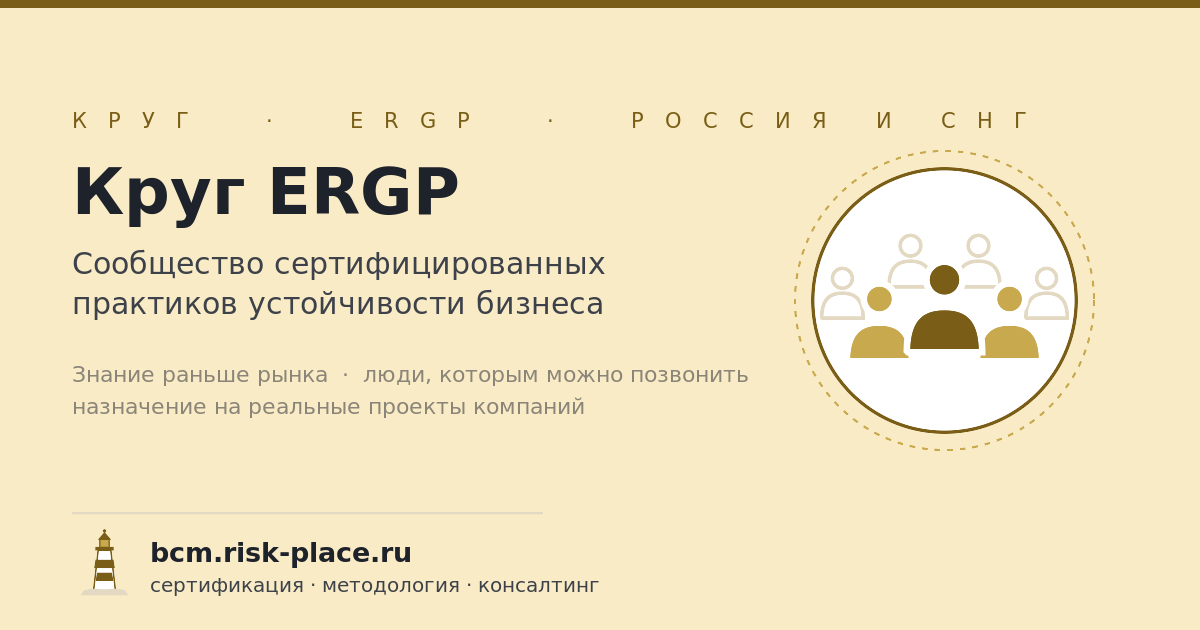
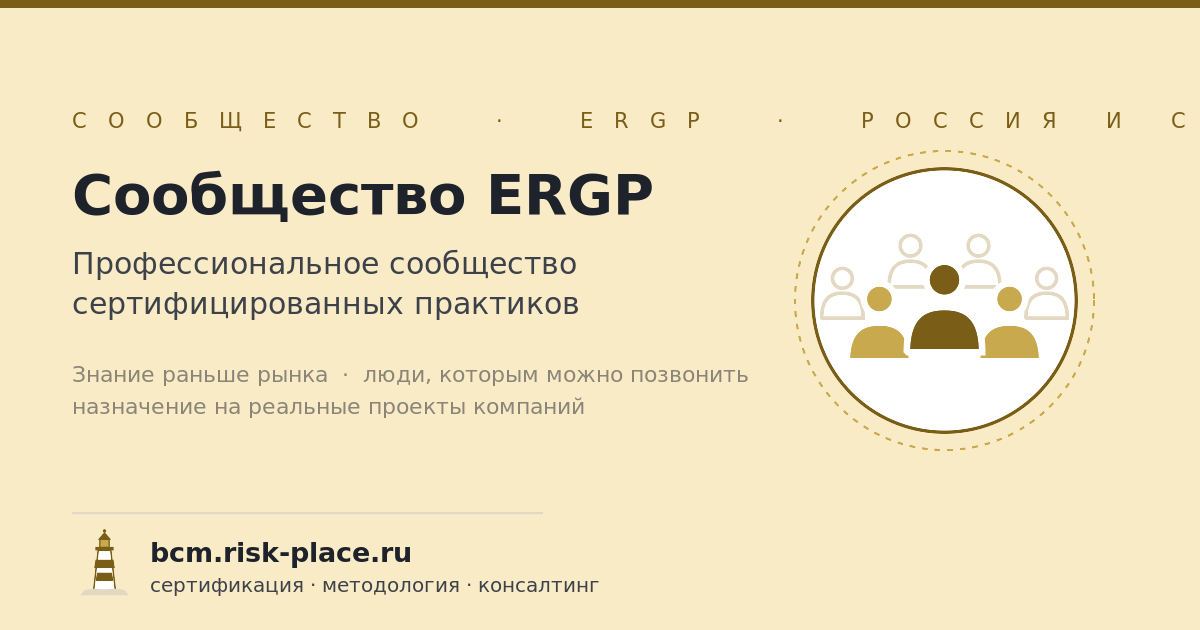
ё

diff --git a/index.html b/index.html
@@ -392,7 +392,7 @@ section:last-of-type { padding-bottom: 40px; }
   flex-shrink: 0;
 }
 .section-title {
-  font-size: clamp(21px, 2.5vw, 28px);
+  font-size: clamp(28px, 3.6vw, 44px);
   font-weight: 700;
   line-height: 1.2;
   color: var(--black);
@@ -1200,20 +1200,20 @@ footer{background:#1E222B;}
   <div class="wrap">
     <div class="doors">
       <a class="door" href="onlajn-kurs.html">
-        <span class="dk" data-ru="Мне" data-en="For me">Мне</span>
-        <span class="dt" data-ru="Нужен сертификат по управлению устойчивостью" data-en="I need a resilience governance certificate">Нужен сертификат по управлению устойчивостью</span>
-        <span class="dd" data-ru="ERGP: шесть модулей, 123 главы, итоговая работа перед экзаменатором, именной сертификат в открытом реестре и вход в Круг ERGP." data-en="ERGP: six modules, 123 chapters, a capstone before the examiner, a named certificate in the public register and admission to the ERGP Circle.">ERGP: шесть модулей, 123 главы, итоговая работа перед экзаменатором, именной сертификат в открытом реестре и вход в Круг ERGP.</span>
+        <span class="dk" data-ru="Специалисту" data-en="For a professional">Специалисту</span>
+        <span class="dt" data-ru="Сертификат по управлению устойчивостью бизнеса" data-en="I need a resilience governance certificate">Сертификат по управлению устойчивостью бизнеса</span>
+        <span class="dd" data-ru="ERGP: шесть модулей, 123 главы, итоговая работа перед экзаменатором, именной сертификат в открытом реестре и вход в профессиональное сообщество ERGP." data-en="ERGP: six modules, 123 chapters, a capstone before the examiner, a named certificate in the public register and admission to the ERGP Circle.">ERGP: шесть модулей, 123 главы, итоговая работа перед экзаменатором, именной сертификат в открытом реестре и вход в профессиональное сообщество ERGP.</span>
         <span class="dg" data-ru="Сертификация ERGP →" data-en="ERGP certification →">Сертификация ERGP →</span>
       </a>
       <a class="door" href="kultura-bezopasnosti.html">
-        <span class="dk" data-ru="Моему персоналу" data-en="For my staff">Моему персоналу</span>
-        <span class="dt" data-ru="Нужна культура безопасности на рабочем месте" data-en="Needs a safety culture at the workplace">Нужна культура безопасности на рабочем месте</span>
+        <span class="dk" data-ru="Персоналу компании" data-en="For company staff">Персоналу компании</span>
+        <span class="dt" data-ru="Культура безопасности на рабочем месте" data-en="Needs a safety culture at the workplace">Культура безопасности на рабочем месте</span>
         <span class="dd" data-ru="SAFE: пять модулей, два часа с телефона, оценка риска до начала работы и право остановить опасную работу. Сертификат каждому." data-en="SAFE: five modules, two hours from a phone, risk assessment before work starts and the right to stop unsafe work. A certificate for everyone.">SAFE: пять модулей, два часа с телефона, оценка риска до начала работы и право остановить опасную работу. Сертификат каждому.</span>
         <span class="dg" data-ru="Программа SAFE →" data-en="SAFE programme →">Программа SAFE →</span>
       </a>
       <a class="door" href="dlya-kompanij.html">
-        <span class="dk" data-ru="Моей компании" data-en="For my company">Моей компании</span>
-        <span class="dt" data-ru="Нужна работающая система непрерывности" data-en="Needs a continuity system that works">Нужна работающая система непрерывности</span>
+        <span class="dk" data-ru="Руководителю компании" data-en="For a company leader">Руководителю компании</span>
+        <span class="dt" data-ru="Работающая система непрерывности" data-en="Needs a continuity system that works">Работающая система непрерывности</span>
         <span class="dd" data-ru="Дашборд непрерывности и рисков для руководства и построение системы под ключ: аудит, планы, обученные люди, риски в деньгах." data-en="A continuity and risk dashboard for leadership and a turnkey system: audit, plans, trained people, risk in money.">Дашборд непрерывности и рисков для руководства и построение системы под ключ: аудит, планы, обученные люди, риски в деньгах.</span>
         <span class="dg" data-ru="Услуги для компаний →" data-en="Services for companies →">Услуги для компаний →</span>
       </a>
@@ -1224,8 +1224,7 @@ footer{background:#1E222B;}
 <section class="cert-section" id="certification">
   <div class="wrap">
     <div style="max-width:820px;margin:0 0 28px;">
-      <div class="section-eyebrow" data-ru="Программы и сертификация" data-en="Programmes and certification">Программы и сертификация</div>
-      <h2 class="section-title" style="margin-bottom:10px;" data-ru="Профессиональные программы и тренинги по работе с рисками" data-en="Professional programmes and training in risk management">Профессиональные программы и тренинги по работе с рисками</h2>
+      <h2 class="section-title" style="margin-bottom:10px;" data-ru="Программы и сертификация" data-en="Programmes and certification">Программы и сертификация</h2>
       <p class="section-desc" style="margin:0;" data-ru="Программа для тех, кто строит систему непрерывности, программа по безопасности для всего персонала и очный тренинг для управленческой команды." data-en="A programme for those building the continuity system, a workplace safety programme for all staff and in-person training for the management team.">Программа для тех, кто строит систему непрерывности, программа по безопасности для всего персонала и очный тренинг для управленческой команды.</p>
     </div>
     <div class="cert-card">
@@ -1274,9 +1273,8 @@ footer{background:#1E222B;}
 <section class="products-section" id="products" style="padding:43px 24px;background:#FFFFFF;">
   <div class="wrap">
     <div style="max-width:820px;margin:0 0 36px;">
-      <div class="section-eyebrow" data-ru="Для компаний" data-en="For companies">Для компаний</div>
-      <h2 class="section-title" style="margin-bottom:10px;" data-ru="Дашборд для руководства и система непрерывности под ключ" data-en="A dashboard for leadership and a turnkey continuity system">Дашборд для руководства и система непрерывности под ключ</h2>
-      <p class="section-desc" style="margin:0;" data-ru="Дашборд показывает руководству живую картину устойчивости. Система под ключ дает работающие планы, обученных людей и риски в деньгах. Цена по объему работ, расчет за два рабочих дня." data-en="The dashboard gives leadership a live picture of resilience. The turnkey system leaves you with working plans, trained people and risk in money. Priced by scope, quote within two working days.">Дашборд показывает руководству живую картину устойчивости. Построение системы под ключ дает работающие планы, обученных людей и риски в деньгах. Цена по объему работ, расчет за два рабочих дня.</p>
+      <h2 class="section-title" style="margin-bottom:10px;" data-ru="Для компаний" data-en="For companies">Для компаний</h2>
+      <p class="section-desc" style="margin:0;" data-ru="Две услуги, в которых мы приносим компании результат: дашборд для руководства и построение системы непрерывности под ключ. Цена по объему работ, расчет за два рабочих дня." data-en="The dashboard gives leadership a live picture of resilience. The turnkey system leaves you with working plans, trained people and risk in money. Priced by scope, quote within two working days.">Дашборд показывает руководству живую картину устойчивости. Построение системы под ключ дает работающие планы, обученных людей и риски в деньгах. Цена по объему работ, расчет за два рабочих дня.</p>
     </div>
 <!-- Дашборд — крупный подблок -->
     <div class="dash-flag">
@@ -1290,19 +1288,15 @@ footer{background:#1E222B;}
         <span id="dash-shot"><img src="dashboard-preview.jpg" alt="Дашборд непрерывности и рисков — интегральный индекс, стоимость дня простоя и статус планов" loading="lazy" class="dash-flag-img"></span>
       </div>
     </div>
-    <!-- Три карточки -->
-    <div class="prod-trio" style="grid-template-columns:1fr 1fr;">
-      <div class="prod-card" style="border:1px solid #E3D9C2;border-radius:16px;padding:24px 20px 20px;display:flex;flex-direction:column;background:#fff;">
-        <span data-ru="С экспертом" data-en="With an expert" style="align-self:flex-start;font-size:12px;font-weight:700;padding:5px 12px;border-radius:999px;background:#F5F1E8;color:#7A5E17;margin:0 0 10px;">С экспертом</span>
-        <h3 data-ru="Построение системы непрерывности под ключ" data-en="Turnkey business continuity system" style="font-size:19px;line-height:1.25;margin:0 0 8px;color:#1B3A5C;">Построение системы непрерывности под ключ</h3>
-        <p data-ru="От аудита того, что есть, до действующей системы: работающие планы, обученные люди, риски в деньгах и измеримые метрики восстановления." data-en="From an audit of what exists to a working system: usable plans, trained people, risk in money terms and measurable recovery metrics." style="font-size:15px;line-height:1.5;color:#565A63;margin:0 0 14px;flex:1;">От аудита того, что есть, до действующей системы: работающие планы, обученные люди, риски в деньгах и измеримые метрики восстановления.</p>
-        <a href="bcm-pod-klyuch.html" class="prod-link-row"><span data-ru="Подробнее и запросить стоимость" data-en="Details and request a quote">Подробнее и запросить стоимость</span><span>→</span></a>
+    <div class="dash-flag">
+      <div>
+        <span id="pk-shot"><img src="assets/pod-klyuch-preview.svg" alt="Построение системы непрерывности под ключ: аудит, планы, люди, метрики и что остается в компании" loading="lazy" class="dash-flag-img" width="1060" height="560"></span>
       </div>
-      <div class="prod-card" style="border:1px solid #E3D9C2;border-radius:16px;padding:24px 20px 20px;display:flex;flex-direction:column;background:#F5F1E8;">
-        <span data-ru="Обучение для вашей команды" data-en="Training for your team" style="align-self:flex-start;font-size:12px;font-weight:700;padding:5px 12px;border-radius:999px;background:#fff;color:#7A5E17;margin:0 0 10px;">Обучение для вашей команды</span>
-        <h3 data-ru="Корпоративный тренинг и SAFE для персонала" data-en="Corporate training and SAFE for staff" style="font-size:19px;line-height:1.25;margin:0 0 8px;color:#1B3A5C;">Корпоративный тренинг и SAFE для персонала</h3>
-        <p data-ru="Два дня с управленческой командой на ваших процессах, с кризисным учением в финале. Персонал проходит SAFE с телефона за два часа, сертификат каждому." data-en="Two days with the management team on your own processes, with a crisis exercise at the end. Staff take SAFE from a phone in two hours, a certificate for everyone." style="font-size:15px;line-height:1.55;color:#565A63;margin:0 0 16px;flex:1;">Два дня с управленческой командой на ваших процессах, с кризисным учением в финале. Персонал проходит SAFE с телефона за два часа, сертификат каждому.</p>
-        <a href="obuchenie-nepreryvnosti-biznesa.html" class="prod-link-row"><span data-ru="Корпоративный тренинг" data-en="Corporate training">Корпоративный тренинг</span><span>→</span></a>
+      <div>
+        <span class="dash-flag-badge" data-ru="С экспертом" data-en="With an expert">С экспертом</span>
+        <h3 class="dash-flag-title" data-ru="Построение системы непрерывности под ключ" data-en="Turnkey continuity system">Построение системы непрерывности под ключ</h3>
+        <p class="dash-flag-desc" data-ru="Начинаем с честного аудита того, что есть, и за один-два месяца доводим до работающей системы: короткие планы для худшего дня, люди, которые знают свои роли, риски в деньгах и измеримое восстановление. Стресс-тест, стратегическая сессия и риск-сюрвей площадок включаются по задаче и входят в единый расчет." data-en="We start with an honest audit of what exists and in one to two months reach a working system: short plans for the worst day, people who know their roles, risk in money and measurable recovery. A stress-test, a strategy session and a site risk survey are added by task and priced in one quote.">Начинаем с честного аудита того, что есть, и за один-два месяца доводим до работающей системы: короткие планы для худшего дня, люди, которые знают свои роли, риски в деньгах и измеримое восстановление. Стресс-тест, стратегическая сессия и риск-сюрвей площадок включаются по задаче и входят в единый расчет.</p>
+        <a href="bcm-pod-klyuch.html" class="btn btn-black" data-ru="Подробнее и запросить расчет →" data-en="Details and request a quote →">Подробнее и запросить расчет →</a>
       </div>
     </div>
   </div>
@@ -1311,7 +1305,6 @@ footer{background:#1E222B;}
 <section class="stats-section">
   <div class="wrap">
     <div style="max-width:820px;margin:0 0 34px;">
-      <div class="section-eyebrow" data-ru="Масштаб проблемы" data-en="The scale of the problem">Масштаб проблемы</div>
       <h2 class="section-title" data-ru="Во что обходится остановка бизнеса" data-en="What a business stoppage actually costs">Во что обходится остановка бизнеса</h2>
     </div>
     <div class="stats-grid">
@@ -1339,42 +1332,13 @@ footer{background:#1E222B;}
   </div>
 </section>
 <hr class="divider">
-<!-- ══ PROBLEM ══ -->
-<section class="pains-band" style="padding:43px 24px; background: #1B3A5C;">
-  <div class="wrap">
-    <div class="section-eyebrow" id="i18n-prob-eyebrow">С чем мы помогаем</div>
-    <h2 class="section-title" id="i18n-prob-title">Ситуации, в которых нужна непрерывность бизнеса</h2>
-    <div class="misconceptions" style="margin-top:36px;">
-      <div class="misconception-card">
-        <div class="myth-label" id="myth-lbl1">Ситуация</div>
-        <div class="myth-text" id="myth1">«Кибератака или сбой ИТ — и компания встала, деньги не идут»</div>
-        <div class="truth-label" id="truth-lbl1">Что делаем</div>
-        <div class="truth-text" id="truth1">Оцифровываем стоимость простоя, строим план восстановления с RTO/RPO и пошаговыми действиями для каждого сценария.</div>
-      </div>
-      <div class="misconception-card">
-        <div class="myth-label" id="myth-lbl2">Ситуация</div>
-        <div class="myth-text" id="myth2">«Ушел ключевой человек или пропал поставщик — процесс остановился»</div>
-        <div class="truth-label" id="truth-lbl2">Что делаем</div>
-        <div class="truth-text" id="truth2">Находим точки концентрации риска, готовим резервные цепочки поставок и план замещения ключевых людей.</div>
-      </div>
-      <div class="misconception-card">
-        <div class="myth-label" id="myth-lbl3">Ситуация</div>
-        <div class="myth-text" id="myth3">«Контрагент, банк или тендер требует план непрерывности или ISO 22301»</div>
-        <div class="truth-label" id="truth-lbl3">Что делаем</div>
-        <div class="truth-text" id="truth3">Разрабатываем BCP и систему по ISO 22301 — основу для соответствия требованиям контрагентов и сертификации.</div>
-      </div>
-    </div>
-  </div>
-</section>
 <!-- ══ МЕТОДОЛОГИЯ ══ -->
 <section id="metodologiya" style="padding:43px 24px;background:#FFFFFF;">
   <div class="wrap">
 
-    <div class="section-eyebrow" data-ru="Методология непрерывности" data-en="Continuity methodology">Методология непрерывности</div>
-
     <div style="display:grid;grid-template-columns:1.35fr 1fr;gap:40px;align-items:end;margin-bottom:38px;" class="meth-head">
       <div>
-        <h2 class="section-title" data-ru="База знаний по непрерывности бизнеса" data-en="A working knowledge base on business continuity">База знаний по непрерывности бизнеса</h2>
+        <h2 class="section-title" data-ru="Методология и база знаний" data-en="Methodology and knowledge base">Методология и база знаний</h2>
         <p style="font-size:17px;line-height:1.6;color:#565A63;margin:0;" data-ru="Все, чему мы учим и что внедряем у клиентов, опубликовано здесь. Методики, готовые структуры документов, требования регуляторов и разборы реальных сценариев — без регистрации и без оплаты." data-en="Everything we teach and implement for clients is published here. Methods, document structures, regulatory requirements and real scenario breakdowns — free and open.">Все, чему мы учим и что внедряем у клиентов, опубликовано здесь. Методики, готовые структуры документов, требования регуляторов и разборы реальных сценариев — без регистрации и без оплаты.</p>
       </div>
       <form onsubmit="return mSearch(event)" style="display:flex;gap:10px;">
@@ -1448,7 +1412,6 @@ footer{background:#1E222B;}
 
       <!-- текст -->
       <div style="flex:1 1 300px;min-width:0;">
-        <div class="section-eyebrow" style="margin-bottom:10px;" data-ru="Новая книга · PDF, бесплатно" data-en="New book · PDF, free">Новая книга · PDF, бесплатно</div>
         <div data-ru="Практическая карта непрерывности: от оценки уязвимостей до работы в день сбоя." data-en="A practical continuity map — from assessing vulnerabilities to the day of an outage." style="font-size:17px;font-weight:700;line-height:1.35;color:#1E222B;margin-bottom:9px;">Практическая карта непрерывности: от оценки уязвимостей до работы в день сбоя.</div>
         <div class="kb-bullets" style="display:flex;flex-wrap:wrap;gap:6px 22px;font-size:15px;line-height:1.35;color:#565A63;">
           <span><span style="color:#7A5E17;font-weight:800;">→</span> <span data-ru="Оценка уязвимостей и критичных процессов" data-en="Assessing vulnerabilities and critical processes">Оценка уязвимостей и критичных процессов</span></span>
@@ -1500,20 +1463,19 @@ function mSearch(e){e.preventDefault();var q=(document.getElementById('mq').valu
 <!-- ══ КТО ЗА ЭТИМ СТОИТ ══ -->
 <section style="padding:43px 24px;background:#FFFFFF;border-top:1px solid #E3D9C2;">
   <div class="wrap">
-    <div class="section-eyebrow" data-ru="Кто за этим стоит" data-en="Who is behind it">Кто за этим стоит</div>
-    <h2 class="section-title" style="margin-bottom:10px;" data-ru="Практики, которые сами вели эти системы, и сообщество, которое они ведут" data-en="Practitioners who ran these systems themselves, and the community they lead">Практики, которые сами вели эти системы, и сообщество, которое они ведут</h2>
+    <h2 class="section-title" style="margin-bottom:10px;" data-ru="Кто за этим стоит" data-en="Who is behind it">Кто за этим стоит</h2>
     <p class="section-desc" style="margin:0 0 26px;max-width:820px;" data-ru="Два основателя с двадцатью годами в риск-функциях крупных организаций, промышленность и банк. Программы написаны по тому, что выдержало и что сломалось в реальных инцидентах." data-en="Two founders with twenty years each in the risk functions of large organisations, industry and banking. The programmes are written from what held and what broke in real incidents.">Два основателя с двадцатью годами в риск-функциях крупных организаций, промышленность и банк. Программы написаны по тому, что выдержало и что сломалось в реальных инцидентах.</p>
     <div class="who">
       <div>
         <div class="ppl">
           <div class="pp"><img src="exp-telenkov.jpg" alt="Евгений Теленков" loading="lazy"><div><b>Евгений Теленков</b><span data-ru="Директор практики непрерывности · к.э.н. · главный экзаменатор ERGP" data-en="Director, continuity practice · PhD · Chief Examiner, ERGP">Директор практики непрерывности · к.э.н. · главный экзаменатор ERGP</span></div></div>
-          <div class="pp"><img src="exp-khilko.jpg" alt="Эржена Хилько" loading="lazy"><div><b data-ru="Эржена Хилько" data-en="Erzhena Khilko">Эржена Хилько</b><span data-ru="Директор образовательных программ · куратор Круга ERGP" data-en="Director of Educational Programmes · Curator of the ERGP Circle">Директор образовательных программ · куратор Круга ERGP</span></div></div>
+          <div class="pp"><img src="exp-khilko.jpg" alt="Эржена Хилько" loading="lazy"><div><b data-ru="Эржена Хилько" data-en="Erzhena Khilko">Эржена Хилько</b><span data-ru="Директор образовательных программ · куратор профессионального сообщества ERGP" data-en="Director of Educational Programmes · Curator of the ERGP Circle">Директор образовательных программ · куратор профессионального сообщества ERGP</span></div></div>
         </div>
-        <p style="margin:16px 0 0;"><a href="o-podhode.html#experts" style="color:#1B3A5C;font-weight:700;text-decoration:none;font-size:15px;" data-ru="О нас и о Круге ERGP →" data-en="About us and the ERGP Circle →">О нас и о Круге ERGP →</a></p>
+        <p style="margin:16px 0 0;"><a href="o-podhode.html#experts" style="color:#1B3A5C;font-weight:700;text-decoration:none;font-size:15px;" data-ru="О нас и о профессиональном сообществе ERGP →" data-en="About us and the ERGP Circle →">О нас и о профессиональном сообществе ERGP →</a></p>
       </div>
       <div class="side">
-        <b data-ru="Круг ERGP" data-en="The ERGP Circle">Круг ERGP</b>
-        <p data-ru="Сертификат ERGP это вход в закрытое сообщество сертифицированных практиков: ежеквартальные сессии, каталог членов, назначение на реальные проекты компаний. Круг один на русскую, английскую и арабскую редакции программы." data-en="The ERGP certificate is the entry to a private community of certified practitioners: quarterly sessions, a member directory, assignment to real engagements. One Circle for the Russian, English and Arabic editions.">Сертификат ERGP это вход в закрытое сообщество сертифицированных практиков: ежеквартальные сессии, каталог членов, назначение на реальные проекты компаний. Круг один на русскую, английскую и арабскую редакции программы.</p>
+        <b data-ru="Профессиональное сообщество ERGP" data-en="The ERGP Circle">Профессиональное сообщество ERGP</b>
+        <p data-ru="Сертификат ERGP это вход в закрытое сообщество сертифицированных практиков: ежеквартальные сессии, каталог членов, назначение на реальные проекты компаний. Сообщество одно на русскую, английскую и арабскую редакции программы." data-en="The ERGP certificate is the entry to a private community of certified practitioners: quarterly sessions, a member directory, assignment to real engagements. One Circle for the Russian, English and Arabic editions.">Сертификат ERGP это вход в закрытое сообщество сертифицированных практиков: ежеквартальные сессии, каталог членов, назначение на реальные проекты компаний. Сообщество одно на русскую, английскую и арабскую редакции программы.</p>
         <b data-ru="Сертификат, который можно проверить" data-en="A certificate you can verify">Сертификат, который можно проверить</b>
         <p data-ru="У каждого сертификата номер, работодатель проверяет его по открытому реестру за десять секунд." data-en="Every certificate has a number; an employer verifies it in the public register in ten seconds.">У каждого сертификата номер, работодатель проверяет его по открытому реестру за десять секунд.</p>
         <a href="onlajn-kurs.html#certificate" data-ru="Проверить сертификат →" data-en="Verify a certificate →">Проверить сертификат →</a>
@@ -1537,7 +1499,6 @@ function mSearch(e){e.preventDefault();var q=(document.getElementById('mq').valu
   .calt a:hover{text-decoration:underline}
   </style>
   <div class="wrap">
-    <div class="section-eyebrow"><span data-ru="Демонстрация и внедрение" data-en="Demo and implementation">Демонстрация и внедрение</span></div>
     <h2 class="section-title"><span data-ru="Запросите демонстрацию продукта или расчет внедрения" data-en="Request a product demo or an implementation estimate">Запросите демонстрацию продукта или расчет внедрения</span></h2>
     <p style="font-size:15px;color:#565A63;max-width:640px;margin:8px 0 22px;" data-ru="Выберите, что вас интересует, — ответим в течение рабочего дня и предложим следующий шаг." data-en="Pick what you are interested in — we reply within one business day with a proposed next step.">Выберите, что вас интересует, — ответим в течение рабочего дня и предложим следующий шаг.</p>
     <div class="cform">

diff --git a/o-podhode.html b/o-podhode.html
@@ -11,8 +11,8 @@
 </script>
 <meta charset="UTF-8">
 <meta name="viewport" content="width=device-width, initial-scale=1.0">
-<title>О нас: основатели, Круг ERGP и консультанты проектов</title>
-<meta name="description" content="Два практика с двадцатью годами в риск-функциях крупных организаций и сообщество, которое они координируют: Круг ERGP, где сертифицированные специалисты по устойчивости учатся раньше рынка, находят друг друга и получают проекты. Консультанты практики по страхованию, комплаенсу и санкциям.">
+<title>О нас: основатели и профессиональное сообщество ERGP</title>
+<meta name="description" content="Два практика с двадцатью годами в риск-функциях крупных организаций и сообщество, которое они ведут: профессиональное сообщество ERGP, где сертифицированные специалисты по устойчивости учатся раньше рынка, находят друг друга и получают проекты. Консультанты практики по страхованию, комплаенсу и санкциям.">
 <meta name="author" content="Risk-place">
 <meta name="robots" content="index, follow">
 <link rel="alternate" hreflang="ru" href="https://bcm.risk-place.ru/o-podhode.html">
@@ -22,8 +22,8 @@
 <meta name="yandex-verification" content="6b8108f8673d1707">
 <meta property="og:type" content="website">
 <meta property="og:url" content="https://bcm.risk-place.ru/o-podhode.html">
-<meta property="og:title" content="О нас: основатели, Круг ERGP и консультанты проектов">
-<meta property="og:description" content="Два практика с двадцатью годами в риск-функциях крупных организаций и сообщество, которое они координируют: Круг ERGP, где сертифицированные специалисты по устойчивости учатся раньше рынка, находят друг друга и получают проекты. Консультанты практики по страхованию, комплаенсу и санкциям.">
+<meta property="og:title" content="О нас: основатели и профессиональное сообщество ERGP">
+<meta property="og:description" content="Два практика с двадцатью годами в риск-функциях крупных организаций и сообщество, которое они ведут: профессиональное сообщество ERGP, где сертифицированные специалисты по устойчивости учатся раньше рынка, находят друг друга и получают проекты. Консультанты практики по страхованию, комплаенсу и санкциям.">
 <meta property="og:image" content="https://bcm.risk-place.ru/og-bcm-circle.png">
 <meta property="og:locale" content="ru_RU">
 <link rel="icon" type="image/png" href="favicon.png">
@@ -107,14 +107,14 @@
     <div class="crumbs"><a href="index.html">Главная</a> / О нас</div>
     <div class="phero-eyebrow">О нас</div>
     <h1>Люди за ERGP и практика, которая стоит за продуктами</h1>
-    <p class="phero-lead">Два основателя, круг сертифицированных практиков, который они координируют, и консультанты проектов, усиливающие консалтинг там, где нужна отраслевая глубина.</p>
+    <p class="phero-lead">Два основателя, профессиональное сообщество сертифицированных практиков, который они координируют, и консультанты проектов, усиливающие консалтинг там, где нужна отраслевая глубина.</p>
   </div>
 </div>
 <div class="tw">
 
   <section class="tsec" id="experts">
     <h2>Основатели сообщества</h2>
-    <p class="sub">Один партнер ведет практику непрерывности и приносит проекты, другая ведет программы и держит круг живым. Между ними промышленность и банк, две стороны устойчивости.</p>
+    <p class="sub">Один партнер ведет практику непрерывности и приносит проекты, другая ведет программы и держит сообщество живым. Между ними промышленность и банк, две стороны устойчивости.</p>
     <div class="team2">
       <div class="tcard">
       <img src="exp-telenkov.jpg" alt="Евгений Теленков">
@@ -127,12 +127,12 @@
         <li>15+ программ непрерывности внедрено, 300+ специалистов обучено; автор ERGP, SAFE и русско-английской библиотеки</li>
         <li>Зампред ТК-010 «Менеджмент риска» Росстандарта; экспертиза: BCM и BCP, операционные и ИТ-риски, киберустойчивость, ИСО 22301</li>
       </ul>
-      <div class="cr"><b>В круге:</b> возглавляет экзаменационную комиссию, задает методологию и подбирает членов круга под проекты компаний.</div>
+      <div class="cr"><b>В сообществе:</b> возглавляет экзаменационную комиссию, задает методологию и подбирает членов сообщества под проекты компаний.</div>
     </div>
       <div class="tcard">
       <img src="exp-khilko.jpg" alt="Эржена Хилько">
       <div class="en">Эржена Хилько</div>
-      <div class="er">Директор образовательных программ · ERGP, SAFE · Куратор Круга ERGP</div>
+      <div class="er">Директор образовательных программ · ERGP, SAFE · Куратор профессионального сообщества ERGP</div>
       <ul>
         <li>Директор по рискам American Express Bank и оператора его платежной системы, 2010–2024; председатель комитета по рискам, член КУАП и кредитного комитета</li>
         <li>Построила систему управления рисками в 12 бизнес-подразделениях по модели трех линий защиты, без замечаний аудита; ВПОДК по Базелю III</li>
@@ -140,38 +140,38 @@
         <li>Ранее руководитель рисков Bank of Cyprus Russia, корпоративные финансы в Deloitte, аудит в Ernst &amp; Young; международные команды в Скандинавии, Центральной Европе и EMEA</li>
         <li>Отвечает за дизайн обучения, расписание потоков и опыт студента во всех программах; сертифицированный бизнес-психолог</li>
       </ul>
-      <div class="cr"><b>В круге:</b> курирует сообщество, ведет ежеквартальные сессии круга, приглашает экзаменаторов и хранит каталог членов.</div>
+      <div class="cr"><b>В сообществе:</b> курирует сообщество, ведет ежеквартальные сессии сообщества, приглашает экзаменаторов и хранит каталог членов.</div>
     </div>
     </div>
   </section>
 
   <section class="tsec" id="circle">
-    <h2>Круг ERGP</h2>
+    <h2>Профессиональное сообщество ERGP</h2>
     <div class="circ">
-      <img src="assets/ergp-circle-ru.svg" alt="Круг ERGP: сертифицированные практики в центре, два координатора соединяют их с компаниями" width="1060" height="520" loading="lazy">
+      <img src="assets/ergp-circle-ru.svg" alt="Профессиональное сообщество ERGP: сертифицированные практики в центре, два координатора соединяют их с компаниями" width="1060" height="520" loading="lazy">
       <div>
-        <p class="lead">Сдав ERGP, вы входите в круг, закрытое сообщество практиков с сертификатом, которое координируют основатели. Круг один на русскую, английскую и арабскую редакции программы. Сегодня он невелик и растет с каждым выданным сертификатом.</p>
+        <p class="lead">Сдав ERGP, вы входите в профессиональное сообщество практиков с сертификатом, которое координируют основатели. Сообщество одно на русскую, английскую и арабскую редакции программы. Сегодня он невелик и растет с каждым выданным сертификатом.</p>
         <p>Членство получают один раз, на экзамене, и оно дает три вещи.</p>
       </div>
     </div>
     <div class="three">
-      <div class="t"><span class="k">Знание</span><b>Раньше рынка</b><ul><li>Ежеквартальная сессия круга: один реальный случай, разобранный с основателями и экзаменаторами</li><li>Новые модули и разборы требований регуляторов приходят членам круга до публикации</li><li>Рабочие шаблоны из живых проектов</li></ul></div>
-      <div class="t"><span class="k">Люди</span><b>Каталог, в который можно позвонить</b><ul><li>Закрытый каталог членов со специализацией и контактами, доступен только внутри круга</li><li>Прямой доступ к экзаменаторам и друг к другу</li><li>Коллеги, которые решают ту же задачу в соседней отрасли</li></ul></div>
-      <div class="t"><span class="k">Возможности</span><b>Вас зовут в реальные проекты</b><ul><li>Мы назначаем членов круга на проекты компаний: аудит, дашборд, построение системы</li><li>Члены со стажем становятся экзаменаторами и соавторами модулей</li><li>Ваше имя в открытом реестре, который проверит любой работодатель</li></ul></div>
+      <div class="t"><span class="k">Знание</span><b>Раньше рынка</b><ul><li>Ежеквартальная сессия сообщества: один реальный случай, разобранный с основателями и экзаменаторами</li><li>Новые модули и разборы требований регуляторов приходят членам сообщества до публикации</li><li>Рабочие шаблоны из живых проектов</li></ul></div>
+      <div class="t"><span class="k">Люди</span><b>Каталог, в который можно позвонить</b><ul><li>Закрытый каталог членов со специализацией и контактами, доступен только внутри сообщества</li><li>Прямой доступ к экзаменаторам и друг к другу</li><li>Коллеги, которые решают ту же задачу в соседней отрасли</li></ul></div>
+      <div class="t"><span class="k">Возможности</span><b>Вас зовут в реальные проекты</b><ul><li>Мы назначаем членов сообщества на проекты компаний: аудит, дашборд, построение системы</li><li>Члены со стажем становятся экзаменаторами и соавторами модулей</li><li>Ваше имя в открытом реестре, который проверит любой работодатель</li></ul></div>
     </div>
     <p style="margin:14px 0 6px;font-weight:700;color:var(--ink)">Как вступить.</p>
     <div class="steps">
       <div class="s"><span class="n">ШАГ 1</span>Пройти программу: шесть модулей, 123 главы, шесть собственных артефактов.</div>
       <div class="s"><span class="n">ШАГ 2</span>Сдать шесть тестов по модулям и защитить итоговую работу перед экзаменатором.</div>
-      <div class="s"><span class="n">ШАГ 3</span>Получить сертификат, а вместе с ним приглашение в круг.</div>
+      <div class="s"><span class="n">ШАГ 3</span>Получить сертификат, а вместе с ним приглашение в сообщество.</div>
     </div>
-    <p class="small" style="margin-top:8px">Круг открыт для обладателей сертификата ERGP. <a href="onlajn-kurs.html">Программа и стоимость →</a></p>
+    <p class="small" style="margin-top:8px">Сообщество открыто для обладателей сертификата ERGP. <a href="onlajn-kurs.html">Программа и стоимость →</a></p>
   </section>
 
   <section class="tsec" id="engage">
     <h2>Для компаний: обратитесь к практике</h2>
     <div class="orgbox">
-      <p>Нужны руки для аудита по ИСО 22301 или требованиям Банка России, дашборд непрерывности и рисков, система непрерывности, построенная вместе с вашей командой? Опишите задачу. Мы назначаем на проект члена круга, уровень которого проверили сами на экзамене, а основатели остаются на проекте координаторами.</p>
+      <p>Нужны руки для аудита по ИСО 22301 или требованиям Банка России, дашборд непрерывности и рисков, система непрерывности, построенная вместе с вашей командой? Опишите задачу. Мы назначаем на проект члена сообщества, уровень которого проверили сами на экзамене, а основатели остаются на проекте координаторами.</p>
       <a class="btn btn-yellow" href="dlya-kompanij.html">Услуги для компаний</a>
     </div>
   </section>

diff --git a/onlajn-kurs.html b/onlajn-kurs.html
@@ -435,17 +435,17 @@
 </div></section>
 
 <section class="psec" id="circle"><div class="uw">
-  <h2>Что вы получаете вместе с сертификатом: Круг ERGP</h2>
+  <h2>Что вы получаете вместе с сертификатом: профессиональное сообщество ERGP</h2>
   <div class="circ2">
-    <img src="assets/ergp-circle-ru.svg" alt="Круг ERGP: сертифицированные практики в центре, два координатора соединяют их с компаниями" width="1060" height="520" loading="lazy">
+    <img src="assets/ergp-circle-ru.svg" alt="Профессиональное сообщество ERGP: сертифицированные практики в центре, два координатора соединяют их с компаниями" width="1060" height="520" loading="lazy">
     <div>
-      <p><b>Сертификат это вход.</b> Сдав ERGP, вы входите в круг, закрытое сообщество сертифицированных практиков, которое координируют основатели. Круг один на русскую, английскую и арабскую редакции программы, сегодня он невелик и растет с каждым выданным сертификатом.</p>
+      <p><b>Сертификат это вход.</b> Сдав ERGP, вы входите в профессиональное сообщество сертифицированных практиков, которое координируют основатели. Сообщество одно на русскую, английскую и арабскую редакции программы, сегодня он невелик и растет с каждым выданным сертификатом.</p>
       <ul>
-        <li><b>Знание раньше рынка.</b> Ежеквартальная сессия круга по одному реальному случаю; новые модули и разборы требований регуляторов до публикации.</li>
+        <li><b>Знание раньше рынка.</b> Ежеквартальная сессия сообщества по одному реальному случаю; новые модули и разборы требований регуляторов до публикации.</li>
         <li><b>Люди, которым можно позвонить.</b> Закрытый каталог членов, доступ к экзаменаторам.</li>
-        <li><b>Реальные проекты.</b> Мы назначаем членов круга на проекты компаний: аудит, дашборд, построение системы. Члены со стажем становятся экзаменаторами.</li>
+        <li><b>Реальные проекты.</b> Мы назначаем членов сообщества на проекты компаний: аудит, дашборд, построение системы. Члены со стажем становятся экзаменаторами.</li>
       </ul>
-      <p class="small">Куратор круга Эржена Хилько, проекты координирует Евгений Теленков. <a href="o-podhode.html#circle">Подробнее о круге →</a></p>
+      <p class="small">Куратор сообщества Эржена Хилько, проекты координирует Евгений Теленков. <a href="o-podhode.html#circle">Подробнее о сообществе →</a></p>
     </div>
   </div>
 </div></section>
@@ -456,8 +456,8 @@
     <img src="exp-khilko.jpg" alt="Эржена Хилько" width="460" height="460" loading="lazy">
     <div class="body">
       <span class="nm">Эржена Хилько</span>
-      <span class="rl">Директор образовательных программ · ERGP, SAFE · Куратор Круга ERGP</span>
-      <p style="max-width:74ch;margin:0">Директор по рискам American Express Bank и оператора его платежной системы в 2010–2024 годах, председатель комитета по рискам. Построила систему управления рисками в двенадцати бизнес-подразделениях по модели трех линий защиты без замечаний аудита, вела ВПОДК по Базелю III, самооценку рисков и контролей по пятнадцати ключевым процессам и план непрерывности с ежегодными учениями. Ранее руководитель рисков Bank of Cyprus Russia, корпоративные финансы в Deloitte, аудит в Ernst &amp; Young. Отвечает за дизайн обучения, расписание потоков и опыт студента во всех наших программах и курирует Круг ERGP.</p>
+      <span class="rl">Директор образовательных программ · ERGP, SAFE · Куратор профессионального сообщества ERGP</span>
+      <p style="max-width:74ch;margin:0">Директор по рискам American Express Bank и оператора его платежной системы в 2010–2024 годах, председатель комитета по рискам. Построила систему управления рисками в двенадцати бизнес-подразделениях по модели трех линий защиты без замечаний аудита, вела ВПОДК по Базелю III, самооценку рисков и контролей по пятнадцати ключевым процессам и план непрерывности с ежегодными учениями. Ранее руководитель рисков Bank of Cyprus Russia, корпоративные финансы в Deloitte, аудит в Ernst &amp; Young. Отвечает за дизайн обучения, расписание потоков и опыт студента во всех наших программах и курирует профессиональное сообщество ERGP.</p>
     </div>
   </div>
   <div class="dir">

diff --git a/kultura-bezopasnosti.html b/kultura-bezopasnosti.html
@@ -514,8 +514,8 @@
     <img src="exp-khilko.jpg" alt="Эржена Хилько" width="460" height="460" loading="lazy">
     <div class="body">
       <span class="nm">Эржена Хилько</span>
-      <span class="rl">Директор образовательных программ · ERGP, SAFE · Куратор Круга ERGP</span>
-      <p style="max-width:74ch;margin:0">Директор по рискам American Express Bank и оператора его платежной системы в 2010–2024 годах, председатель комитета по рискам. Построила систему управления рисками в двенадцати бизнес-подразделениях по модели трех линий защиты без замечаний аудита, вела ВПОДК по Базелю III, самооценку рисков и контролей по пятнадцати ключевым процессам и план непрерывности с ежегодными учениями. Ранее руководитель рисков Bank of Cyprus Russia, корпоративные финансы в Deloitte, аудит в Ernst &amp; Young. Отвечает за дизайн обучения, расписание потоков и опыт студента во всех наших программах и курирует Круг ERGP.</p>
+      <span class="rl">Директор образовательных программ · ERGP, SAFE · Куратор профессионального сообщества ERGP</span>
+      <p style="max-width:74ch;margin:0">Директор по рискам American Express Bank и оператора его платежной системы в 2010–2024 годах, председатель комитета по рискам. Построила систему управления рисками в двенадцати бизнес-подразделениях по модели трех линий защиты без замечаний аудита, вела ВПОДК по Базелю III, самооценку рисков и контролей по пятнадцати ключевым процессам и план непрерывности с ежегодными учениями. Ранее руководитель рисков Bank of Cyprus Russia, корпоративные финансы в Deloitte, аудит в Ernst &amp; Young. Отвечает за дизайн обучения, расписание потоков и опыт студента во всех наших программах и курирует профессиональное сообщество ERGP.</p>
     </div>
   </div>
   <div class="dir">
